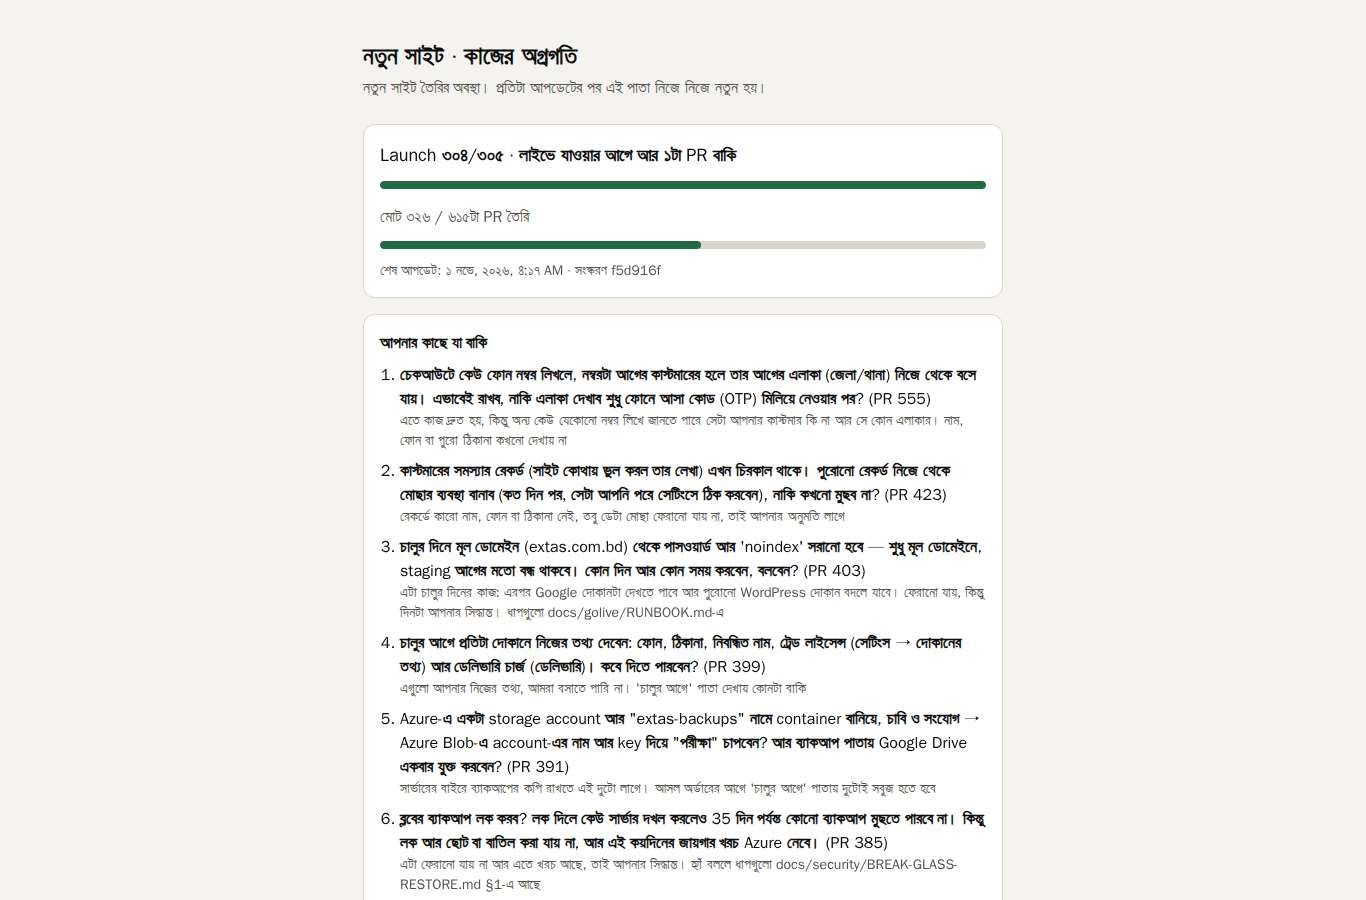
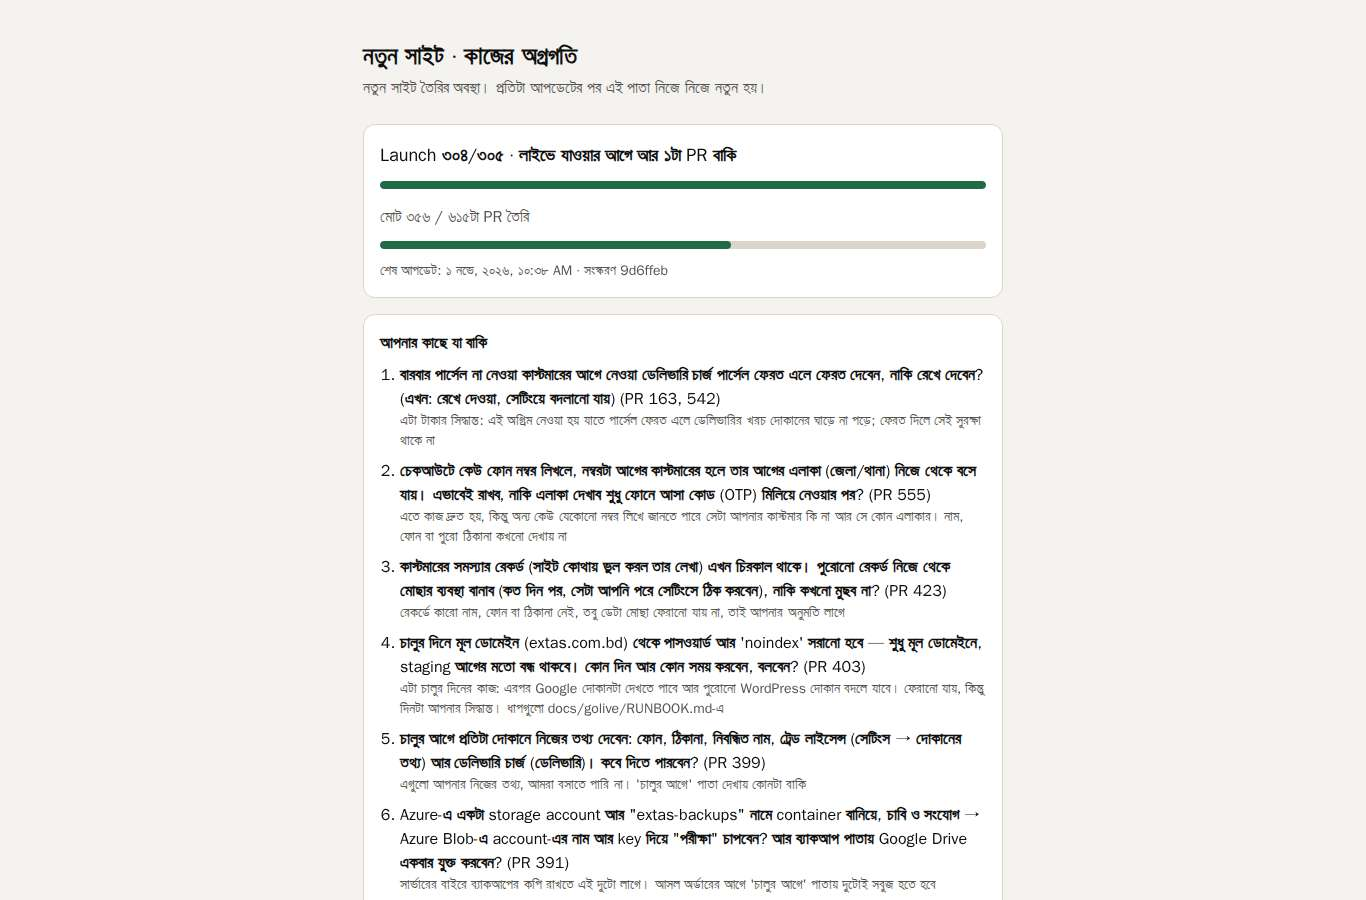
deploy report: 9d6ffeb4b79f OK [skip ci]

Changed region(s): [[0.2767, 0.4044, 0.7379, 0.9956], [0.369, 0.28, 0.4919, 0.3111], [0.4919, 0.2489, 0.5534, 0.28]]

diff --git a/docs/reports/smoke/latest/README.md b/docs/reports/smoke/latest/README.md
@@ -1,8 +1,8 @@
-# Smoke test · 2026-11-01 06:15 (Asia/Dhaka)
+# Smoke test · 2026-11-01 10:38 (Asia/Dhaka)
 
-> **বাংলায়:** সব পাতা ঠিকমতো খুলেছে (268টা পাতা, ফোন আর কম্পিউটারে)। কোনো সমস্যা নেই।
+> **বাংলায়:** সব পাতা ঠিকমতো খুলেছে (308টা পাতা, ফোন আর কম্পিউটারে)। কোনো সমস্যা নেই।
 
-Site: https://new.extas.com.bd · commit `f5d916fafcae` · nightly · result **PASS** (268 page views, 0 failed)
+Site: https://new.extas.com.bd · commit `9d6ffeb4b79f` · after deploy · result **PASS** (308 page views, 0 failed)
 
 | Page | Screen | Answer | Landed on | Result | Screenshot |
 |---|---|:-:|---|---|---|
@@ -85,6 +85,11 @@ Site: https://new.extas.com.bd · commit `f5d916fafcae` · nightly · result **P
 | `/admin/server` | phone | 200 | `/admin/server` | ok | — |
 | `/admin/integrations` | phone | 200 | `/admin/integrations` | ok | — |
 | `/admin/settings/look` | phone | 200 | `/admin/settings/look` | ok | — |
+| `/admin/orders/digest` | phone | 200 | `/admin/orders/digest` | ok | — |
+| `/admin/orders/confirm/calls` | phone | 200 | `/admin/orders/confirm/calls` | ok | — |
+| `/admin/reports/fraud` | phone | 200 | `/admin/reports/fraud` | ok | — |
+| `/admin/reports/learning` | phone | 200 | `/admin/reports/learning` | ok | — |
+| `/admin/reports/stopped` | phone | 200 | `/admin/reports/stopped` | ok | — |
 | `/admin/messages` | phone | 200 | `/admin/messages` | ok | — |
 | `/admin/marketing` | phone | 200 | `/admin/marketing` | ok | — |
 | `/admin/website` | phone | 200 | `/admin/website` | ok | — |
@@ -138,6 +143,21 @@ Site: https://new.extas.com.bd · commit `f5d916fafcae` · nightly · result **P
 | `/admin/website/seo/categories` | phone | 200 | `/admin/website/seo/categories` | ok | — |
 | `/admin/orders/returns/qc` | phone | 200 | `/admin/orders/returns/qc` | ok | — |
 | `/admin/products/new` | phone | 200 | `/admin/products/new` | ok | — |
+| `/admin/help/manual` | phone | 200 | `/admin/help/manual` | ok | — |
+| `/admin/help/manual?c=orders` | phone | 200 | `/admin/help/manual` | ok | — |
+| `/admin/help/manual?q=backup` | phone | 200 | `/admin/help/manual` | ok | — |
+| `/admin/help/manual?new=1` | phone | 200 | `/admin/help/manual` | ok | — |
+| `/admin/reports/health/speed` | phone | 200 | `/admin/reports/health/speed` | ok | — |
+| `/admin/reports/health/smoke` | phone | 200 | `/admin/reports/health/smoke` | ok | — |
+| `/admin/reports/health/history` | phone | 200 | `/admin/reports/health/history` | ok | — |
+| `/admin/reports/health/fixes` | phone | 200 | `/admin/reports/health/fixes` | ok | — |
+| `/admin/ai/audit` | phone | 200 | `/admin/ai/audit` | ok | — |
+| `/admin/money/refunds` | phone | 200 | `/admin/money/refunds` | ok | — |
+| `/admin/money/refunds?view=all` | phone | 200 | `/admin/money/refunds` | ok | — |
+| `/admin/reports/delivery` | phone | 200 | `/admin/reports/delivery` | ok | — |
+| `/admin/support/rider-issues` | phone | 200 | `/admin/support/rider-issues` | ok | — |
+| `/admin/rules/eid` | phone | 200 | `/admin/rules/eid` | ok | — |
+| `/admin/delivery/settings` | phone | 200 | `/admin/delivery/settings` | ok | — |
 | `/admin/combos?tab=report` | phone | 200 | `/admin/combos` | ok | — |
 | `/admin?home=1` | phone | 200 | `/admin` | ok | [picture](admin-home-1-phone.jpg) |
 | `/` | desktop | 200 | `/` | ok | [picture](home-desktop.jpg) |
@@ -219,6 +239,11 @@ Site: https://new.extas.com.bd · commit `f5d916fafcae` · nightly · result **P
 | `/admin/server` | desktop | 200 | `/admin/server` | ok | — |
 | `/admin/integrations` | desktop | 200 | `/admin/integrations` | ok | — |
 | `/admin/settings/look` | desktop | 200 | `/admin/settings/look` | ok | — |
+| `/admin/orders/digest` | desktop | 200 | `/admin/orders/digest` | ok | — |
+| `/admin/orders/confirm/calls` | desktop | 200 | `/admin/orders/confirm/calls` | ok | — |
+| `/admin/reports/fraud` | desktop | 200 | `/admin/reports/fraud` | ok | — |
+| `/admin/reports/learning` | desktop | 200 | `/admin/reports/learning` | ok | — |
+| `/admin/reports/stopped` | desktop | 200 | `/admin/reports/stopped` | ok | — |
 | `/admin/messages` | desktop | 200 | `/admin/messages` | ok | — |
 | `/admin/marketing` | desktop | 200 | `/admin/marketing` | ok | — |
 | `/admin/website` | desktop | 200 | `/admin/website` | ok | — |
@@ -272,7 +297,22 @@ Site: https://new.extas.com.bd · commit `f5d916fafcae` · nightly · result **P
 | `/admin/website/seo/categories` | desktop | 200 | `/admin/website/seo/categories` | ok | — |
 | `/admin/orders/returns/qc` | desktop | 200 | `/admin/orders/returns/qc` | ok | — |
 | `/admin/products/new` | desktop | 200 | `/admin/products/new` | ok | — |
+| `/admin/help/manual` | desktop | 200 | `/admin/help/manual` | ok | — |
+| `/admin/help/manual?c=orders` | desktop | 200 | `/admin/help/manual` | ok | — |
+| `/admin/help/manual?q=backup` | desktop | 200 | `/admin/help/manual` | ok | — |
+| `/admin/help/manual?new=1` | desktop | 200 | `/admin/help/manual` | ok | — |
+| `/admin/reports/health/speed` | desktop | 200 | `/admin/reports/health/speed` | ok | — |
+| `/admin/reports/health/smoke` | desktop | 200 | `/admin/reports/health/smoke` | ok | — |
+| `/admin/reports/health/history` | desktop | 200 | `/admin/reports/health/history` | ok | — |
+| `/admin/reports/health/fixes` | desktop | 200 | `/admin/reports/health/fixes` | ok | — |
+| `/admin/ai/audit` | desktop | 200 | `/admin/ai/audit` | ok | — |
+| `/admin/money/refunds` | desktop | 200 | `/admin/money/refunds` | ok | — |
+| `/admin/money/refunds?view=all` | desktop | 200 | `/admin/money/refunds` | ok | — |
+| `/admin/reports/delivery` | desktop | 200 | `/admin/reports/delivery` | ok | — |
+| `/admin/support/rider-issues` | desktop | 200 | `/admin/support/rider-issues` | ok | — |
+| `/admin/rules/eid` | desktop | 200 | `/admin/rules/eid` | ok | — |
+| `/admin/delivery/settings` | desktop | 200 | `/admin/delivery/settings` | ok | — |
 | `/admin/combos?tab=report` | desktop | 200 | `/admin/combos` | ok | — |
 | `/admin?home=1` | desktop | 200 | `/admin` | ok | [picture](admin-home-1-desktop.jpg) |
 
-Database (PR 139): ok: 30 tables append-only; the app connects as extas_app.
+Database (PR 139): ok: 31 tables append-only; the app connects as extas_app.

diff --git a/docs/reports/server/deploy-latest.md b/docs/reports/server/deploy-latest.md
@@ -4,13 +4,13 @@ Written by `deploy.yml` after every deploy (`infra/deploy/deploy-report.sh`). Hi
 
 | | |
 |---|---|
-| Commit | `f5d916fafcae` |
-| Time (Asia/Dhaka) | 2026-11-01 04:21 |
+| Commit | `9d6ffeb4b79f` |
+| Time (Asia/Dhaka) | 2026-11-01 10:43 |
 | Result | **OK** |
 | Database migration | ok |
-| Health check on new.extas.com.bd | OK — HTTP 200 from https://new.extas.com.bd/api/health, version f5d916fafcae, colour green |
-| Smoke test (every page) | OK — 268 page views, signed out and as the admin, phone and desktop (storefront pictures: `docs/reports/smoke/latest/`; the admin pictures stay on the server) |
-| Docs on the server | `f5d916fafcae` — README.md + docs/ (2258 files) |
+| Health check on new.extas.com.bd | OK — HTTP 200 from https://new.extas.com.bd/api/health, version 9d6ffeb4b79f, colour blue |
+| Smoke test (every page) | OK — 308 page views, signed out and as the admin, phone and desktop (storefront pictures: `docs/reports/smoke/latest/`; the admin pictures stay on the server) |
+| Docs on the server | `9d6ffeb4b79f` — README.md + docs/ (2283 files) |
 | Main disk (/) | 120 GB free after the clean-up (was 120 GB), at least 15 GB needed |
-| Live colour | green |
-| Run log | https://github.com/mehadih32/Extas-Ecommerce-Site/actions/runs/41247282413 |
+| Live colour | blue |
+| Run log | https://github.com/mehadih32/Extas-Ecommerce-Site/actions/runs/41273563599 |

diff --git a/docs/reports/erp-acceptance/latest/README.md b/docs/reports/erp-acceptance/latest/README.md
@@ -2,5 +2,5 @@
 
 **সারকথা:** ডেমো ERP-এর চাবির অপেক্ষায়। মালিক সেটিংস → ERP সংযোগ পাতায় ডেমো দোকানের চাবি দিলে প্রতি রাতে আর প্রতিটা রিলিজের আগে এই পরীক্ষা চলবে।
 
-- 2026-11-01T00:37:14.175Z: waiting for the demo key. Nothing was called; nothing failed.
+- 2026-11-01T04:38:04.639Z: waiting for the demo key. Nothing was called; nothing failed.
 - The practice ERP runs every check in CI (packages/adapters/test/erp-acceptance.test.ts, the books drills).

diff --git a/docs/reports/server/deploy-history.md b/docs/reports/server/deploy-history.md
@@ -76,3 +76,4 @@ One line per deploy, newest last, appended by `deploy.yml`. Time: Asia/Dhaka.
 | 2026-10-31 22:46 | `0be4a0df90ec` | deploy | OK | ok | OK, smoke OK | — |
 | 2026-11-01 02:36 | `684e993d832c` | deploy | OK | ok | OK, smoke OK | — |
 | 2026-11-01 04:21 | `f5d916fafcae` | deploy | OK | ok | OK, smoke OK | — |
+| 2026-11-01 10:43 | `9d6ffeb4b79f` | deploy | OK | ok | OK, smoke OK | — |
